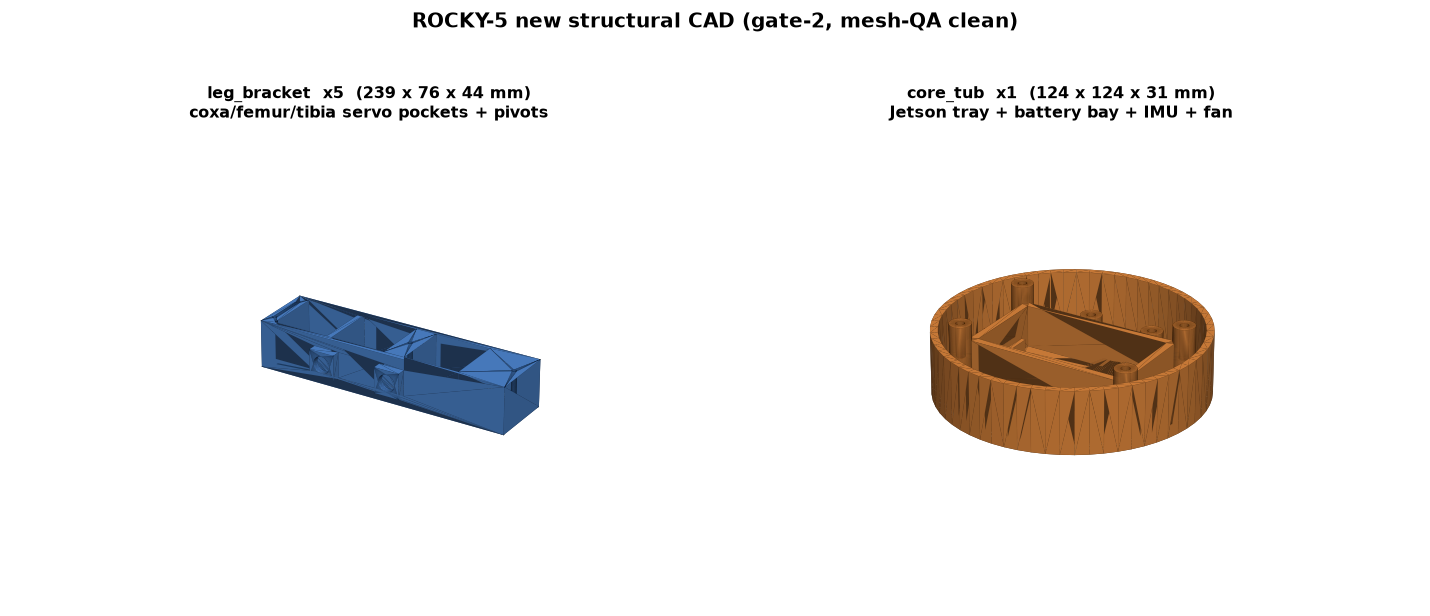
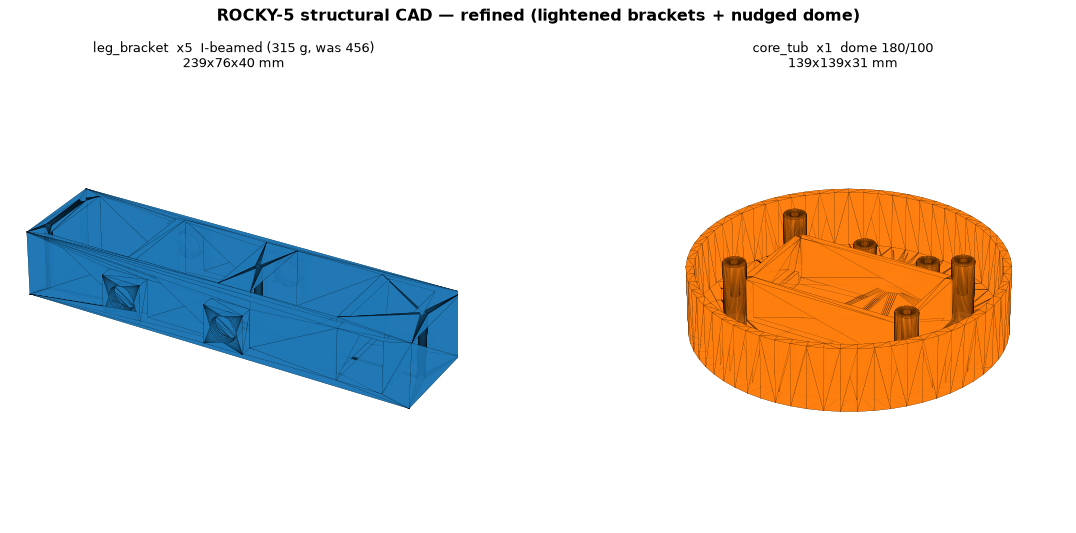
refine(rocky): lighten leg brackets (456->315g) + nudge dome 165->180/100 [D-021]
Operator-approved refinements to the structural CAD flags:
- leg_bracket: floor 9->5mm + through-Y window I-beaming the tibia link -> 315g each
  (was 456g, -31%) at 100% infill; gate-2 stays 9/9.
- dome: carapace_dia 165->180, dome_height 88->100 for fan+Jetson+battery packing and
  Jetson clearance under the apex. Shell-only (legs/servos/torque unchanged) -> no retrain.
- gitignore docs/media/*.wav (film-derived clone audio, never commit).

Claude-Session: https://claude.ai/code/session_01NdCSVwxDSTBpckaFgqcRwF

Changed region(s): [[0.6134, 0.3302, 0.9507, 0.7805], [0.0, 0.3602, 0.4294, 0.7805], [0.092, 0.0, 0.8587, 0.2101]]

diff --git a/rocky/cad/parts/leg_bracket.py b/rocky/cad/parts/leg_bracket.py
@@ -43,7 +43,8 @@ POCK_D = SVH + 1.0                                  # pocket depth (body H + lea
 
 # --- Beam (the structural spine that carries the three pockets) -------------
 WALL = 4.0                                          # side wall each side of a pocket
-FLOOR = 9.0                                         # solid floor beneath the pockets
+FLOOR = 5.0                                         # floor beneath pockets (was 9; lightened)
+SKIN = 4.0                                          # skin left around lightening windows
 BEAM_W = POCK_Y + 2 * WALL                          # cross-section across Y (~60.4)
 BEAM_H = POCK_D + FLOOR                             # spine thickness in Z (~44)
 END_WALL = 12.0                                     # solid root flange behind the coxa pocket
@@ -83,6 +84,19 @@ def _needs_split() -> bool:
 def _servo_pocket(x: float) -> Part:
     """A slide-fit EduLite pocket cut from the top (+Z) face at station x."""
     return Pos(x, 0, BEAM_H - POCK_D / 2) * Box(POCK_X, POCK_Y, POCK_D)
+
+
+def _lightening(x_tibia: float, x_tip: float):
+    """Through-Y window in the solid tibia link (turns the heaviest solid run into
+    an I-beam), leaving SKIN top/bottom + a solid foot-boss region. Returns the cut
+    Part or None if there isn't enough room to keep min-wall."""
+    start = x_tibia + POCK_X / 2 + S.MIN_WALL_STRUCTURAL_MM
+    end = x_tip - 16.0                              # keep the foot-mount region solid
+    wx = end - start
+    wz = BEAM_H - 2 * SKIN
+    if wx < 18.0 or wz < 10.0:
+        return None
+    return Pos((start + end) / 2, 0, BEAM_H / 2) * Box(wx, BEAM_W + 4, wz)
 
 
 def _pivot_knuckles(x: float) -> tuple[Part, Part]:
@@ -138,6 +152,11 @@ def leg_bracket() -> Part:
 
     # Foot mount at the tibia tip (foot bolts UP into the tip; slide clearance).
     beam -= Pos(x_tip - 8.0, 0, BEAM_H / 2) * Cylinder(radius=FOOT_HOLE / 2, height=BEAM_H + 2)
+
+    # Lightening: I-beam the long solid tibia link (biggest single mass).
+    win = _lightening(x_tibia, x_tip)
+    if win is not None:
+        beam -= win
 
     return beam
 

diff --git a/docs/DECISIONS.md b/docs/DECISIONS.md
@@ -205,3 +205,13 @@ not just a seed set.
   vent + 2 diagonal bolt bosses; (b) the IMU boss is offset -X of the pack, not at the
   exact centroid the battery bay occupies; (c) the Jetson body overhangs the tub rim
   into the dome (only its standoffs are printed). All QA-clean.
+
+## D-021 — Rocky: nudge dome 165->180 / 88->100 mm + lighten leg brackets
+Two operator-approved refinements after the structural CAD flags (D-020):
+- **Dome nudge** carapace_dia 165->180, dome_height 88->100 mm — buys packing/cooling
+  room for the 40 mm fan beside the 90 mm Jetson + 70 mm battery, and vertical
+  clearance so the Jetson no longer overhangs the tub rim. Still far under the
+  original 220 mm; legs/servos/torque unchanged (shell-only), so NO retrain.
+- **Leg-bracket lightening**: floor 9->5 mm + a through-Y window I-beaming the long
+  solid tibia link. Mass 456 -> 315 g each (-31%; 5x = 1.58 kg, was 2.28 kg) at 100%
+  infill. Real prints at 15-30% infill are far lighter again. gate-2 stays 9/9.